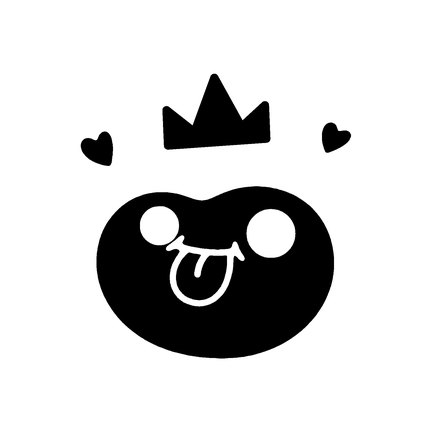
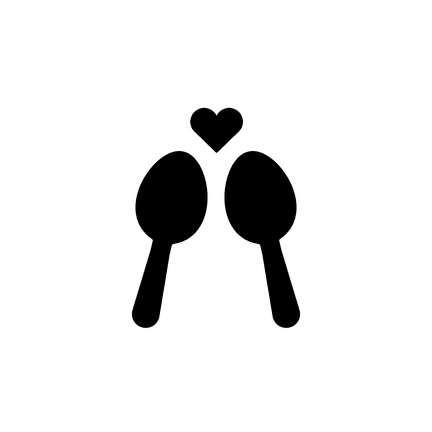
feat(brand): 앱 아이콘을 맞댄 두 숟가락 + 하트로 바꾼다
벡터 생성기(store/icon/make_icon.py)에서 iOS·파비콘·스플래시·안드로이드 전경/배경/단색·
Play 512 를 한 번에 뽑는다. 안드로이드 전경은 공식 안전 영역(66dp)에 맞춰 0.74, 단색은
두 볼 사이 틈을 벌린다. 아이콘은 fingerprint 입력이라 다음 빌드부터 반영된다.

Changed region(s): [[0.2106, 0.1505, 0.7824, 0.8426], [0.1806, 0.3009, 0.2708, 0.3912], [0.7222, 0.2708, 0.8125, 0.3611]]

diff --git a/store/icon/make_icon.py b/store/icon/make_icon.py
@@ -1,0 +1,157 @@
+"""더블리 앱 아이콘 — 맞댄 두 숟가락 + 하트. 벡터 원본이자 모든 아이콘 에셋의 생성기.
+
+    python store/icon/make_icon.py
+
+왜 숟가락인가·기각된 안들은 docs/APP_ICON_EXPLORATION_2026-09-29.md. 요약하면 앱의 매일 쓰는
+고리(식단·럽슐랭·"밥 먹었어?")와 이어지고, 커플 앱 28종 사이에서 겹치는 것이 없고, 24px 에서 버틴다.
+나노바나나 시안을 손잡이 62% · 8° 로 손질한 안의 치수를 재서 도형으로 다시 짰다.
+
+왼쪽 숟가락 하나를 <b>곧은 축 + 축을 따라 변하는 폭</b>으로 정의하고 x=512 로 뒤집어 오른쪽을 만든다
+(1024 좌표계). 볼·목·손잡이를 따로 붙이면 이음매에 턱이 생겼다 — 폭 함수 하나면 생길 수 없다.
+SVG 와 PNG 를 같은 점 목록에서 뽑으므로 둘이 어긋나지 않는다.
+
+<b>아이콘은 fingerprint 입력이다</b> — 에셋을 바꾸면 EAS Update 가 아니라 빌드다(docs/OTA_PREFLIGHT_2026-09-14.md).
+"""
+import math
+import pathlib
+
+from PIL import Image, ImageDraw
+
+
+BG = '#FAF5E8'
+CORAL = '#EF7757'
+GREEN = '#2A7731'   # 앱 primary — 아이콘과 앱 안의 초록을 같은 값으로
+
+# ── 왼쪽 숟가락: 곧은 축 하나 + 축을 따라 변하는 폭 ──
+# 시안을 재 보니 볼의 기울기와 손잡이 방향이 한 직선 위에 있다(윗부분은 가운데로, 끝은 바깥으로).
+# 그래서 볼·목·손잡이를 따로 붙이지 않고 폭 함수 하나로 그린다 — 이음매가 생길 수 없다.
+TOP = (422.0, 306.0)      # 볼 꼭대기(맞대는 쪽으로 기운 끝)
+END = (301.0, 826.0)      # 손잡이 끝 캡의 중심
+BOWL_B = 150.0            # 볼 길이의 절반
+BOWL_A = 112.0            # 볼 폭의 절반
+EGG = 0.15                # 볼이 목 쪽으로 갈수록 넓어지는 정도(시안의 볼은 위가 좁다)
+NECK_S = 330.0            # 손잡이가 시작되는 축 위치(볼 꼭대기에서)
+NECK_W = 62.0             # 가장 잘록한 목 폭
+END_W = 88.0              # 손잡이 끝 폭 — 끝으로 갈수록 살짝 넓다
+SMOOTH = 6.0              # 볼과 손잡이를 잇는 부드러운 합(클수록 각진다)
+
+HEART_BOX = (430.0, 166.0, 598.0, 310.0)   # 하트 외곽(x0, y0, x1, y1)
+
+
+def spoon_outline(n=900):
+    dx, dy = END[0] - TOP[0], END[1] - TOP[1]
+    axis_len = math.hypot(dx, dy)
+    ux, uy = dx / axis_len, dy / axis_len
+    nx, ny = -uy, ux
+    L = axis_len + END_W / 2                      # 캡 끝까지의 전체 길이
+
+    def width(s_):
+        u = (s_ - BOWL_B) / BOWL_B
+        bw = 2 * BOWL_A * math.sqrt(max(0.0, 1 - u * u)) * (1 + EGG * u) if abs(u) <= 1 else 0.0
+        if s_ < NECK_S - 60:
+            hw = 0.0
+        elif s_ <= axis_len:
+            k = min(1.0, max(0.0, (s_ - NECK_S) / (axis_len - NECK_S)))
+            hw = NECK_W + (END_W - NECK_W) * k
+        else:                                      # 둥근 끝 캡
+            v = (s_ - axis_len) / (END_W / 2)
+            hw = END_W * math.sqrt(max(0.0, 1 - v * v))
+        return (bw ** SMOOTH + hw ** SMOOTH) ** (1 / SMOOTH)
+
+    left, right = [], []
+    for i in range(n + 1):
+        # 양 끝에서 촘촘하게(둥근 부분이 각지지 않게)
+        t = i / n
+        s_ = L * (1 - math.cos(math.pi * t)) / 2
+        w = width(s_) / 2
+        cx, cy = TOP[0] + ux * s_, TOP[1] + uy * s_
+        left.append((cx + nx * w, cy + ny * w))
+        right.append((cx - nx * w, cy - ny * w))
+    return left + right[::-1]
+
+
+def heart_parts():
+    """통통한 하트 — 원 두 개 + 두 원에서 아래 꼭짓점으로 내린 접선 면.
+    수식 하트(16sin³t…)는 이 크기에서 끝이 가늘고 길게 빠져 시안의 하트와 달랐다."""
+    x0, y0, x1, y1 = HEART_BOX
+    cx = (x0 + x1) / 2
+    r = (x1 - x0) / 3.8
+    lc, rc = (cx - r * 0.9, y0 + r), (cx + r * 0.9, y0 + r)   # 두 원을 살짝 겹쳐 가운데 홈을 얕게
+    tip = (cx, y1)
+    def circ(c, rr, n=160):
+        return [(c[0] + rr * math.cos(2 * math.pi * i / n), c[1] + rr * math.sin(2 * math.pi * i / n)) for i in range(n)]
+    def tangent(c, outer_sign):
+        dx, dy = tip[0] - c[0], tip[1] - c[1]; d = math.hypot(dx, dy)
+        base = math.atan2(dy, dx); off = math.acos(r / d)
+        cands = [(c[0] + r * math.cos(base + k * off), c[1] + r * math.sin(base + k * off)) for k in (1, -1)]
+        return min(cands, key=lambda q: outer_sign * q[0])
+    tl, tr = tangent(lc, 1), tangent(rc, -1)
+    # 꼭짓점을 아주 살짝 굴린다(날카로운 끝이 24px 에서 사라지지 않게)
+    body = [tl, (cx - 5, y1 - 4), (cx, y1), (cx + 5, y1 - 4), tr, rc, (cx, y0 + r * 1.35), lc]
+    return [circ(lc, r), circ(rc, r), body]
+
+
+def mirror(pts):
+    return [(1024 - x, y) for x, y in pts]
+
+
+LEFT = [spoon_outline()]
+RIGHT = [mirror(p) for p in LEFT]
+HEART = heart_parts()
+SHAPES = [(p, CORAL) for p in LEFT] + [(p, GREEN) for p in RIGHT] + [(p, CORAL) for p in HEART]
+
+
+def svg(bg=True, scale=1.0, mono=None):
+    def tf(p):
+        return (512 + (p[0] - 512) * scale, 512 + (p[1] - 512) * scale)
+    out = ['<svg xmlns="http://www.w3.org/2000/svg" viewBox="0 0 1024 1024" width="1024" height="1024">']
+    if bg:
+        out.append(f'<rect width="1024" height="1024" fill="{BG}"/>')
+    for pts, col in SHAPES:
+        d = 'M' + ' L'.join(f'{x:.1f},{y:.1f}' for x, y in map(tf, pts)) + ' Z'
+        out.append(f'<path d="{d}" fill="{mono or col}"/>')
+    out.append('</svg>')
+    return '\n'.join(out)
+
+
+ROOT = pathlib.Path(__file__).resolve().parent
+ASSETS = ROOT.parent.parent / 'frontend' / 'assets'
+
+# 안드로이드 어댑티브: 108dp 캔버스 중 로고는 가운데 66dp 원(61%) 안 — 공식 안전 영역.
+# 마크의 가장 먼 점이 중심에서 422(1024 기준)라 0.74 면 그 원에 들어간다. 런처는 가운데 72dp 만
+# 보여 주므로 실제로는 이 비율보다 커 보인다.
+ANDROID_SCALE = 0.74
+# 단색(테마) 아이콘은 두 숟가락이 한 색이 되어 볼 사이 좁은 틈이 작은 크기에서 붙는다 — 틈을 벌린다
+MONO_GAP = 14.0
+
+
+def mono_shapes():
+    out = []
+    for pts in LEFT:
+        out.append([(x - MONO_GAP, y) for x, y in pts])
+    for pts in RIGHT:
+        out.append([(x + MONO_GAP, y) for x, y in pts])
+    return out + HEART
+
+
+def render(size, bg, scale=1.0, mono=None, shapes=None):
+    S = 4; N = size * S; k = N / 1024
+    img = Image.new('RGBA', (N, N), bg if bg else (0, 0, 0, 0))
+    d = ImageDraw.Draw(img)
+    items = [(p, mono) for p in shapes] if shapes else SHAPES
+    for pts, col in items:
+        d.polygon([((512 + (x - 512) * scale) * k, (512 + (y - 512) * scale) * k) for x, y in pts], fill=mono or col)
+    return img.resize((size, size), Image.LANCZOS)
+
+
+if __name__ == '__main__':
+    (ROOT / 'dubly-mark.svg').write_text(svg(), encoding='utf-8')
+    render(1024, BG).convert('RGB').save(ASSETS / 'icon.png')                  # iOS · 기본 아이콘(알파 금지)
+    render(1024, BG).convert('RGB').save(ASSETS / 'favicon.png')
+    render(1024, None).save(ASSETS / 'splash-icon.png')                         # 스플래시: 흰 바탕 위 마크만
+    render(432, None, ANDROID_SCALE).save(ASSETS / 'android-icon-foreground.png')
+    Image.new('RGBA', (432, 432), BG).save(ASSETS / 'android-icon-background.png')
+    render(432, None, ANDROID_SCALE, mono='#000000', shapes=mono_shapes()).save(ASSETS / 'android-icon-monochrome.png')
+    # Play 스토어 512 — 불투명 바탕. Play 는 원 마스크에서 반지름 0.455 까지 남긴다: 422/1024*512=211 < 233
+    render(512, BG).convert('RGB').save(ROOT.parent / 'play_icon_512.png')
+    print('ok')
